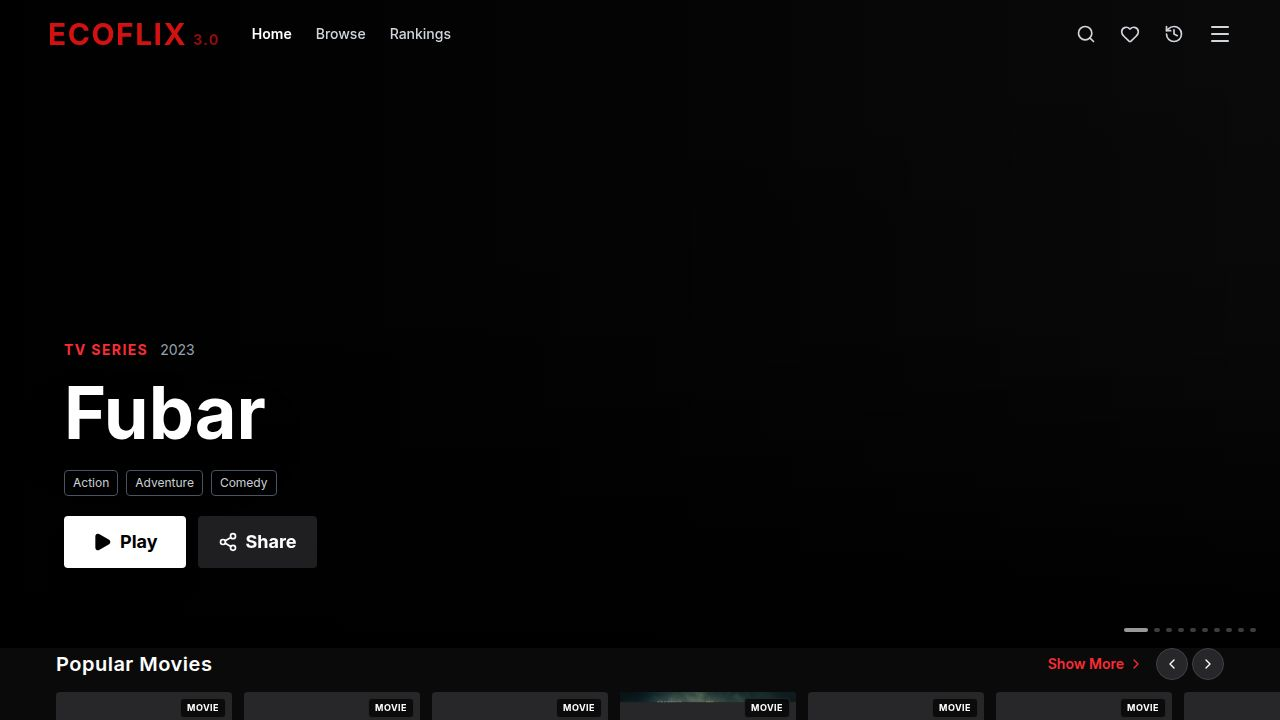
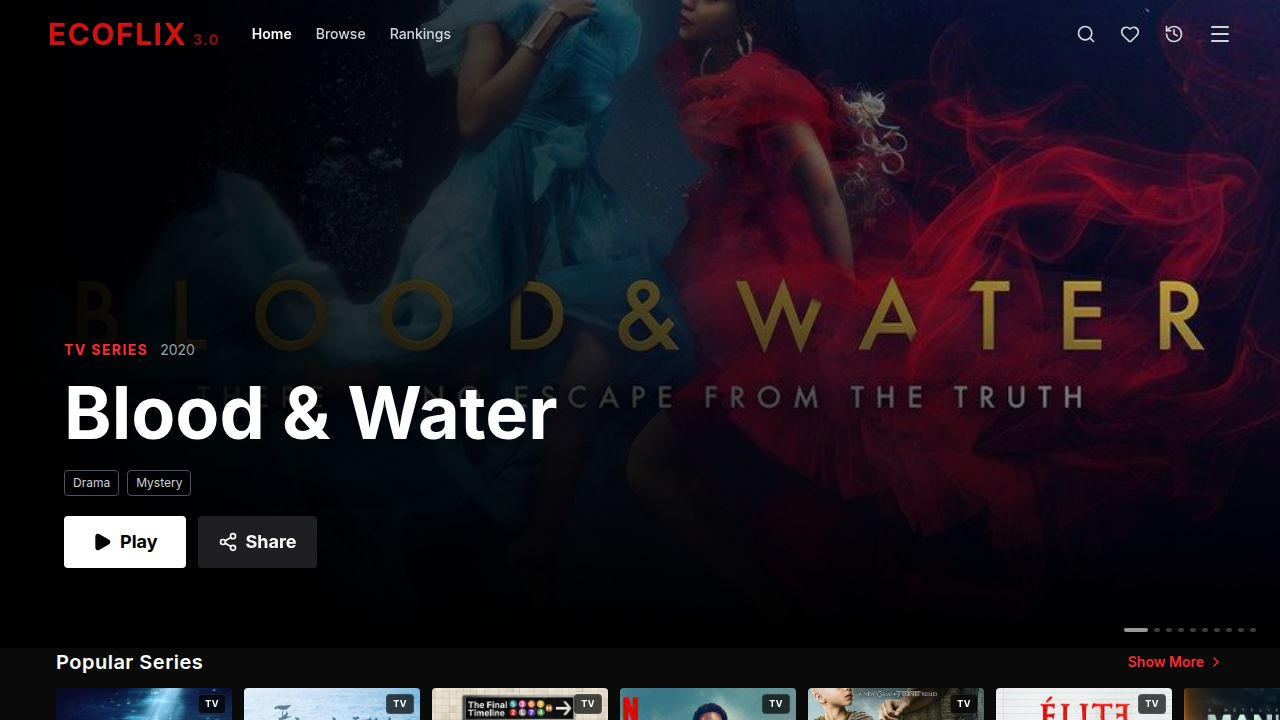
Improve streaming, navigation, and search functionalities
Fix API parameter names for streaming, make navigation arrows always visible on mobile, and display popular searches as clickable pills.

Replit-Commit-Author: Agent
Replit-Commit-Session-Id: 07cb6713-ed83-4b5e-b6a7-5d8316056ce5
Replit-Commit-Checkpoint-Type: full_checkpoint
Replit-Commit-Event-Id: b24e0332-0150-48ff-828f-2bdf81138c93
Replit-Commit-Screenshot-Url: https://storage.googleapis.com/screenshot-production-us-central1/d598b513-1846-4378-9efb-5971b482e182/07cb6713-ed83-4b5e-b6a7-5d8316056ce5/2VQrw4w
Replit-Helium-Checkpoint-Created: true

diff --git a/artifacts/ecoflix/src/pages/Search.tsx b/artifacts/ecoflix/src/pages/Search.tsx
@@ -1,15 +1,12 @@
 import { useState, useEffect } from "react";
 import { useDebounceValue } from "usehooks-ts";
-import { Link } from "wouter";
 import { Layout } from "@/components/Layout";
 import { MediaCard } from "@/components/MediaCard";
 import { Spinner } from "@/components/ui/spinner";
 import { useSearch, useTrending } from "@/hooks/use-ecoflix";
 import { useSearchHistory } from "@/hooks/use-local-state";
-import { Search as SearchIcon, Film, Tv, LayoutGrid, X, TrendingUp, Clock, ChevronRight } from "lucide-react";
+import { Search as SearchIcon, Film, Tv, LayoutGrid, X, TrendingUp, Clock } from "lucide-react";
 import { cn, getType } from "@/lib/utils";
-
-const POPULAR_SEARCHES = ["Action", "Drama", "Comedy", "Thriller", "Sci-Fi", "Horror", "Romance", "Documentary", "Fantasy", "Adventure"];
 
 export default function Search() {
   const [query, setQuery] = useState("");
@@ -134,34 +131,21 @@ export default function Search() {
             </div>
 
             {everyoneSearching.length > 0 && (
-              <div className="mt-4 max-w-2xl mx-auto">
-                <div className="flex items-center gap-2 mb-4">
+              <div className="mt-6">
+                <div className="flex items-center gap-2 mb-4 justify-center">
                   <TrendingUp className="h-5 w-5 text-red-500" />
                   <h3 className="text-lg font-bold text-white">Everyone is Searching</h3>
                 </div>
-                <div className="space-y-1">
-                  {everyoneSearching.map((item, i) => {
-                    const type = item.subjectType === 2 ? 'tv' : 'movie';
-                    return (
-                      <Link key={`${item.subjectId}-${i}`} href={`/${type}/${item.subjectId}`}>
-                        <div className="flex items-center gap-4 px-4 py-3 rounded-xl hover:bg-zinc-900 transition-colors group cursor-pointer">
-                          <span className="text-2xl font-black text-zinc-700 group-hover:text-zinc-500 w-8 text-right flex-shrink-0 transition-colors">
-                            {i + 1}
-                          </span>
-                          <div className="flex-1 min-w-0">
-                            <p className="text-white font-semibold text-sm group-hover:text-red-400 transition-colors line-clamp-1">
-                              {item.title}
-                            </p>
-                            <p className="text-gray-500 text-xs mt-0.5">
-                              {type === 'tv' ? 'TV Series' : 'Movie'}
-                              {(item as any).genre ? ` · ${(item as any).genre.split(',')[0]}` : ''}
-                            </p>
-                          </div>
-                          <ChevronRight className="h-4 w-4 text-zinc-700 group-hover:text-red-500 transition-colors flex-shrink-0" />
-                        </div>
-                      </Link>
-                    );
-                  })}
+                <div className="flex flex-wrap justify-center gap-2.5 max-w-2xl mx-auto">
+                  {everyoneSearching.map((item, i) => (
+                    <button
+                      key={`${item.subjectId}-${i}`}
+                      onClick={() => setQuery(item.title)}
+                      className="bg-zinc-800 hover:bg-red-600/20 hover:text-red-400 hover:border-red-500/50 border border-zinc-700 px-4 py-2 rounded-full text-sm font-medium text-gray-200 transition-all active:scale-95"
+                    >
+                      {item.title}
+                    </button>
+                  ))}
                 </div>
               </div>
             )}

diff --git a/artifacts/ecoflix/src/components/ContentRow.tsx b/artifacts/ecoflix/src/components/ContentRow.tsx
@@ -48,19 +48,19 @@ export function ContentRow({ title, items, progressMap = {}, showMoreHref, onRem
           <>
             <button
               onClick={() => scroll('left')}
-              className="absolute left-0 top-0 h-full w-10 md:w-12 z-20 flex items-center justify-center bg-gradient-to-r from-black/80 to-transparent opacity-0 group-hover/row:opacity-100 transition-opacity hover:from-black"
+              className="absolute left-0 top-0 h-full w-10 md:w-12 z-20 flex items-center justify-center bg-gradient-to-r from-black/80 to-transparent md:opacity-0 md:group-hover/row:opacity-100 transition-opacity hover:from-black active:from-black"
               aria-label="Scroll left"
             >
-              <div className="w-8 h-8 rounded-full bg-white/10 border border-white/20 flex items-center justify-center backdrop-blur-sm hover:bg-white/20 transition-colors">
+              <div className="w-8 h-8 rounded-full bg-black/60 border border-white/20 flex items-center justify-center backdrop-blur-sm hover:bg-white/20 active:bg-white/20 transition-colors">
                 <ChevronLeft className="h-4 w-4 text-white" />
               </div>
             </button>
             <button
               onClick={() => scroll('right')}
-              className="absolute right-0 top-0 h-full w-10 md:w-12 z-20 flex items-center justify-center bg-gradient-to-l from-black/80 to-transparent opacity-0 group-hover/row:opacity-100 transition-opacity hover:from-black"
+              className="absolute right-0 top-0 h-full w-10 md:w-12 z-20 flex items-center justify-center bg-gradient-to-l from-black/80 to-transparent md:opacity-0 md:group-hover/row:opacity-100 transition-opacity hover:from-black active:from-black"
               aria-label="Scroll right"
             >
-              <div className="w-8 h-8 rounded-full bg-white/10 border border-white/20 flex items-center justify-center backdrop-blur-sm hover:bg-white/20 transition-colors">
+              <div className="w-8 h-8 rounded-full bg-black/60 border border-white/20 flex items-center justify-center backdrop-blur-sm hover:bg-white/20 active:bg-white/20 transition-colors">
                 <ChevronRight className="h-4 w-4 text-white" />
               </div>
             </button>

diff --git a/artifacts/ecoflix/src/hooks/use-ecoflix.ts b/artifacts/ecoflix/src/hooks/use-ecoflix.ts
@@ -75,14 +75,16 @@ export function useDetail(subjectId: string) {
 }
 
 export function usePlay(subjectId: string, type: 'movie' | 'tv', season?: string, episode?: string) {
-  const query = new URLSearchParams({ subjectId, type });
-  if (season) query.append("season", season);
-  if (episode) query.append("episode", episode);
+  const isTvEpisode = type === 'tv' && season && episode;
+
+  const queryString = isTvEpisode
+    ? `subjectId=${encodeURIComponent(subjectId)}&se=${encodeURIComponent(season!)}&ep=${encodeURIComponent(episode!)}`
+    : `subjectId=${encodeURIComponent(subjectId)}`;
 
   return useQuery({
     queryKey: ["play", subjectId, type, season, episode],
-    queryFn: () => fetchApi<PlayResponse>(`/play?${query.toString()}`),
-    enabled: !!subjectId && !!type,
+    queryFn: () => fetchApi<PlayResponse>(`/play?${queryString}`),
+    enabled: !!subjectId,
     retry: 1,
     staleTime: 30 * 60 * 1000,
   });

diff --git a/artifacts/ecoflix/src/pages/Home.tsx b/artifacts/ecoflix/src/pages/Home.tsx
@@ -28,9 +28,11 @@ export default function Home() {
   const trendingList: MediaItem[] = trending || [];
   const heroItems = trendingList.slice(0, 10);
 
-  // Filter properly: Popular Movies = subjectType 1 (movies only), Popular Series = subjectType 2 (TV only)
   const popularMovies = (popularMoviesRaw || []).filter(i => i.subjectType === 1);
-  const popularSeries = (popularSeriesRaw || []).filter(i => i.subjectType === 2);
+  // Popular Series: use TV ranking, prefer subjectType 2, fall back to trending TV items
+  const seriesFromRanking = (popularSeriesRaw || []).filter(i => i.subjectType === 2);
+  const seriesFromTrending = (trending || []).filter(i => i.subjectType === 2);
+  const popularSeries = seriesFromRanking.length > 0 ? seriesFromRanking : seriesFromTrending;
 
   const continueItems: MediaItem[] = continueList.map(c => ({
     subjectId: String(c.id),
